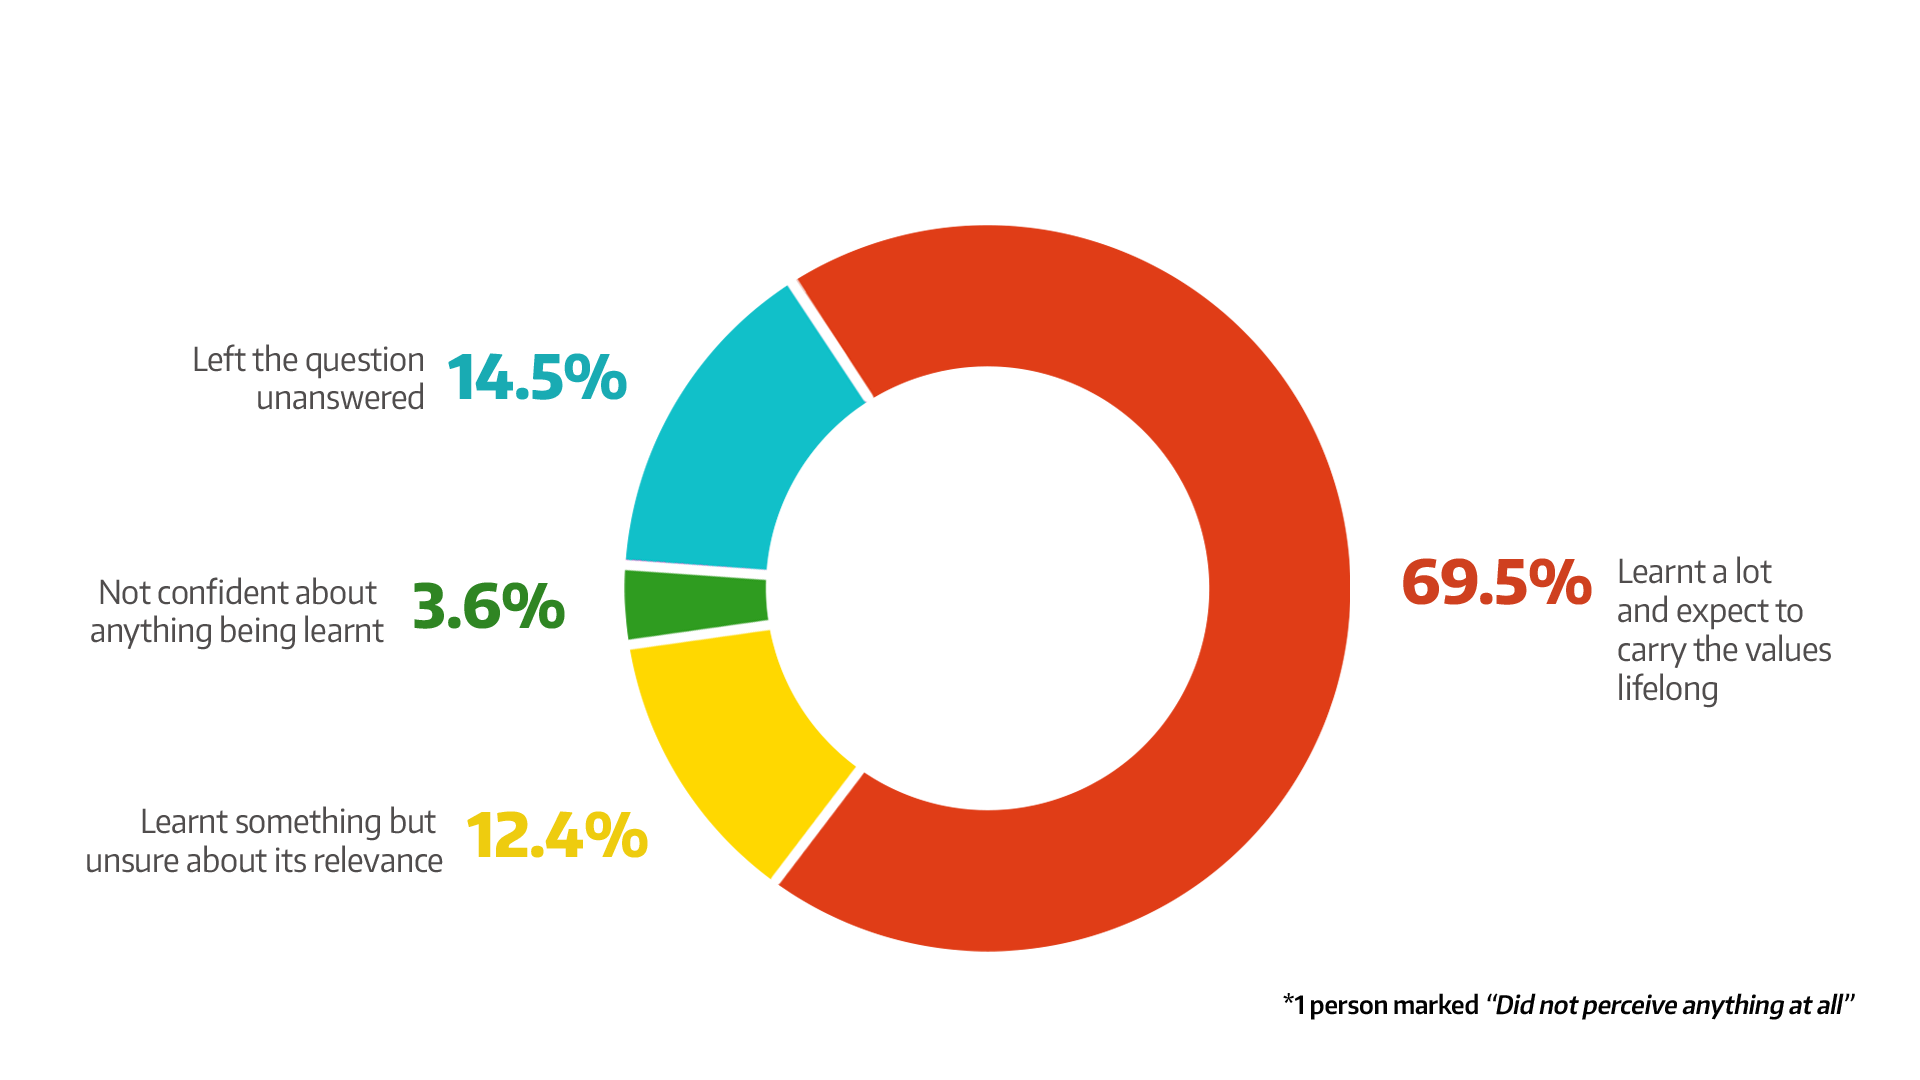
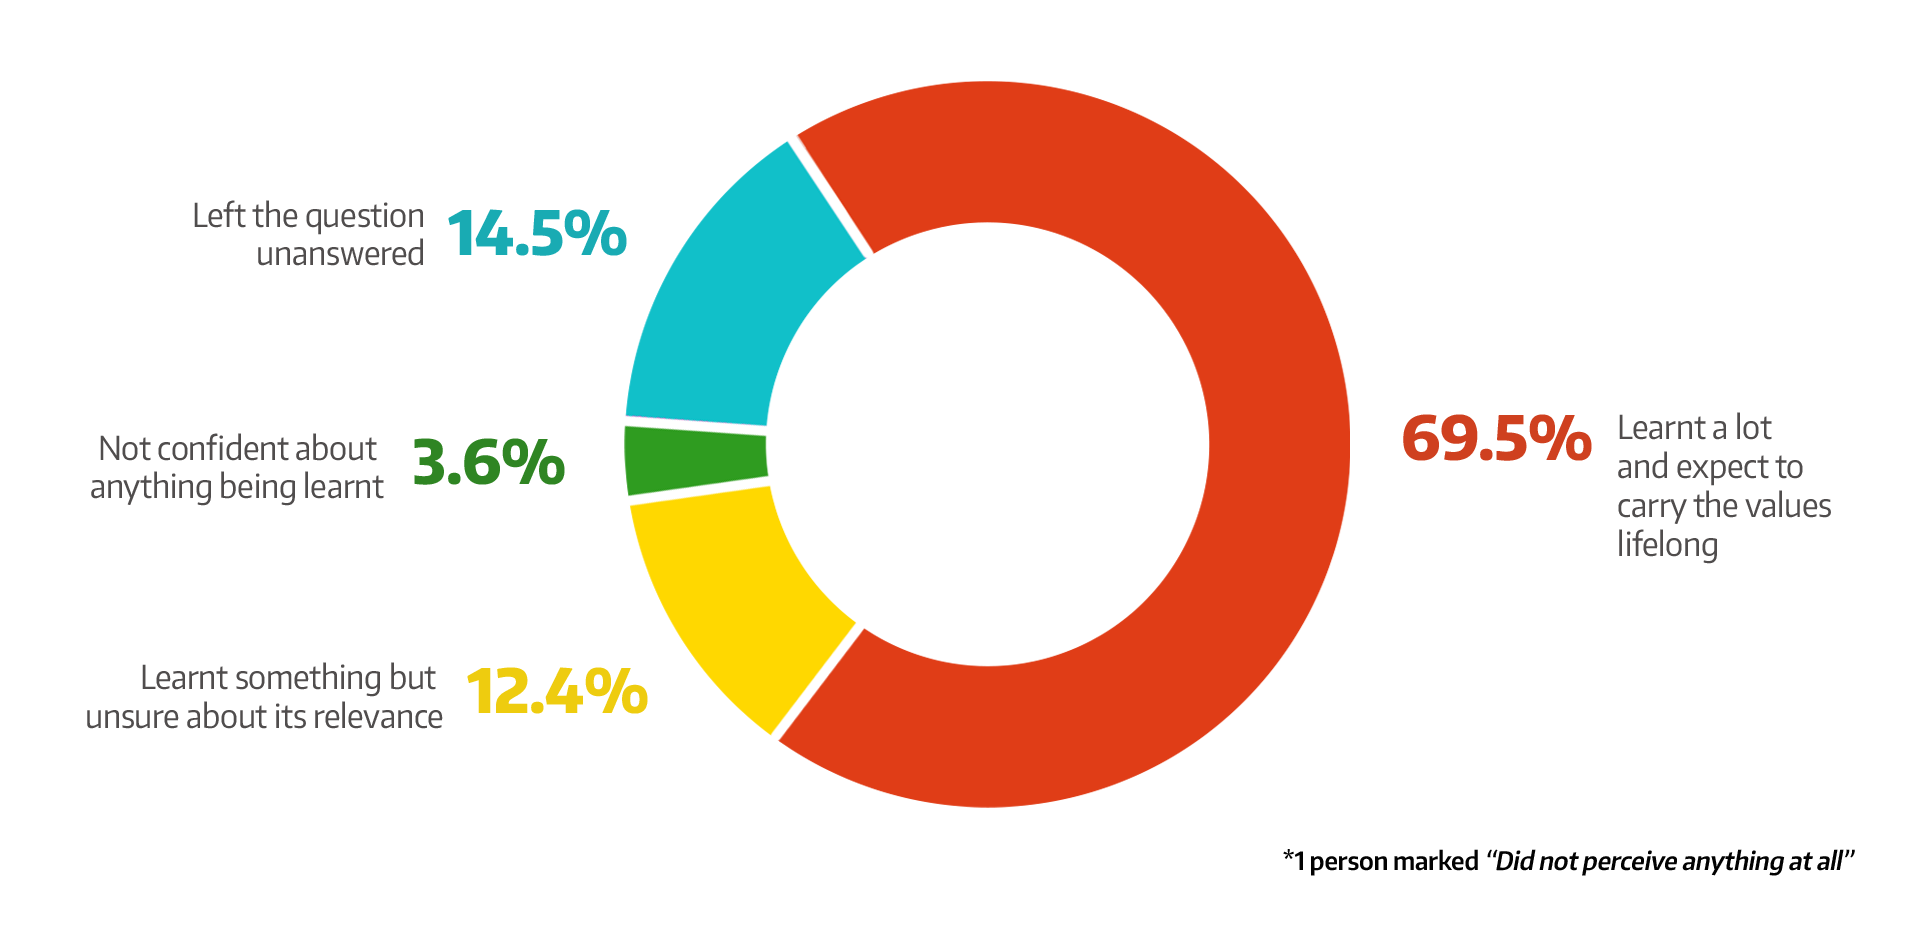
made changes given by akash

Changed region(s): [[0.0312, 0.062, 0.9688, 0.8985], [0.6562, 0.8985, 0.9688, 0.9605]]

diff --git a/extracurriculars.html b/extracurriculars.html
@@ -172,7 +172,7 @@
                                     <div class="col-lg-12">
                                         <h2>Value Addition</h2>
                                         <p class="question">How much value addition do you think your stay at IIT provided you?</p>
-                                        <img src="images/inforgaphics/How much value addition do you think your stay at IIT provided you.png" align="middle" style="width:100%; margin-top: -8%;">
+                                        <img src="images/inforgaphics/How much value addition do you think your stay at IIT provided you.png" align="middle" style="width:100%;">
 
                                         <p>
                                           <br>
@@ -187,7 +187,7 @@
                                     <div class="col-lg-12">
                                         <h2>Influence of POR</h2>
                                         <p class="question">Taking up a position of responsibility has greatly benefited your personality and/or helped you secure a lucrative job offer/admission.</p>
-                                        <img src="images/inforgaphics/por opinion.png" align="middle" style="width:80%; padding-left:10%;">
+                                        <img src="images/inforgaphics/por opinion.png" align="middle" style="width:90%; padding-left:5%;">
 
                                         <p>
                                           <br>
